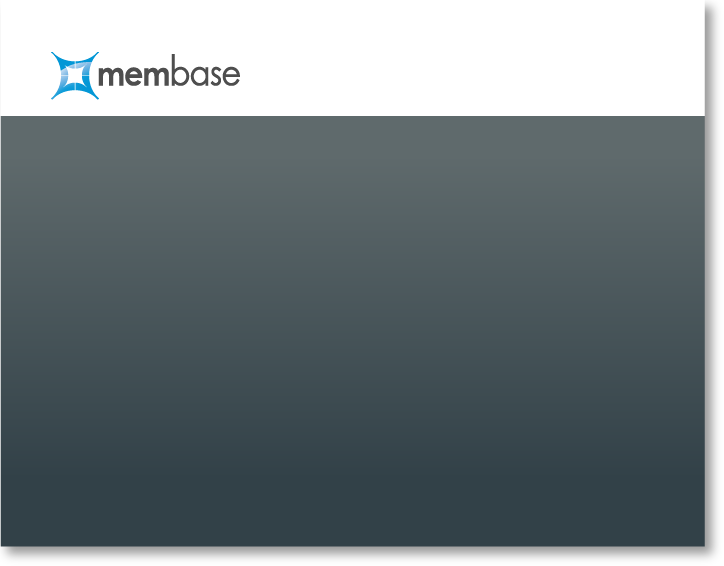
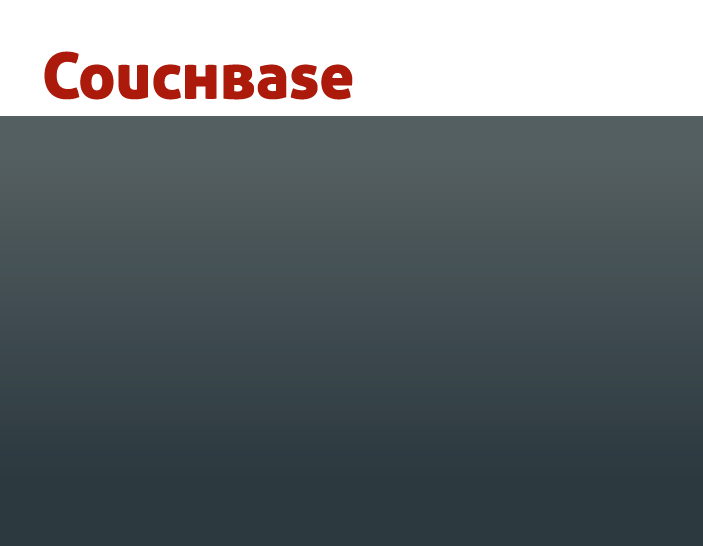
initial Couchbase rebranding and UI restyling

Changed region(s): [[0.0, 0.0, 1.0, 1.0]]

diff --git a/priv/public/css/screen.css b/priv/public/css/screen.css
@@ -24,14 +24,14 @@ textarea {overflow:auto;}
 input {border:0px solid white;margin:0;padding:0;}
 
 a {color:#0095d6; cursor:pointer; text-decoration:none; outline:none;}
-a:link {/*color: #00A6DE;*/color:#0095d6;}
+a:link {color:#2ea6db}
 a:hover {text-decoration:underline;}
 .link {color:#0095d6; cursor:pointer; text-decoration:none;}
 .link:hover {text-decoration:underline;}
 .link:active {outline:1px dotted gray;}
 
 html {height:100%;overflow-y:scroll}
-body {height:100%;color:#444245;font-family:Helvetica, Verdana;line-height:1;background:url(../images/background.png) repeat-x;}
+body {height:100%;color:#616062;font-family:Helvetica, Verdana;line-height:1;background:#F0EEE7}
 
 /* universal styles */
 .nobr {white-space:nowrap;}
@@ -89,22 +89,24 @@ a.disabled{text-decoration:none;cursor:default;}
 .main_holder {position:relative; margin:auto; left:0px !important;}
 .cnt_holder {width:960px; position:relative; left:12%;}
 
-.page-header {background:url('../images/ns_console_headerbg.png') repeat-x;height:75px;}
-.page-header span {position:absolute;background:url('../images/ns_console_logov2.png') no-repeat;width:361px;height:49px;top:15px;left:0;}
+.page-header {background:url('../images/header_bg.png') 0 bottom repeat-x;height:80px;}
+.page-header span {position:absolute;background:url('../images/logo.png') no-repeat;width:361px;height:49px;top:15px;left:0;}
 
-#headerNav {clear:both;height:50px;width:37em;margin:auto}
+#headerNav {clear:both;height:50px;background:url('../images/navigation_bg.png') repeat-x;}
+#headerNav .contents{width:46em;margin:auto;}
 #headerNav ul li {float:left;position:relative}
-#headerNav li a {display:block;text-decoration:none;padding:10px}
-#headerNav li a:hover {background:none #eaf4f9;}
-#headerNav li a.currentNav {background:none #dae4e9;}
+#headerNav li a {display:block;text-decoration:none;padding:13px 23px 7px;line-height:27px}
+#headerNav li:hover {background:url('../images/active_hover_bg.png') repeat-x;}
+#headerNav li.currentNav {background:url('../images/active_bg.png') no-repeat center;}
+#switch_overview {background:url('../images/home_icon.png') no-repeat 0.75em 50%;padding-left:2.5em !important;padding-right:1em !important}
 
 /* to position the badges in the navigation correctly */
 #headerNav a {position:relative;}
-#headerNav .badge {right:0px;top:0px;}
+#headerNav .badge {right:0;top:-0.6em;}
 
 #mainPanel {font-size:12px;/* Helvetica;*/}
 
-.page-footer {position:absolute;bottom:0;width:100%;height:208px;background:url('../images/ns_console_footer.png') repeat-x;}
+.page-footer {position:absolute;bottom:0;width:99.2%;height:96px;background:url('../images/footer_bg.png') repeat-x;padding-left:15px}
 .page-footer h1 {text-transform:none;padding-top:32px;font:normal 11pt Verdana;color:#97979A;}
 .page-footer a {color:#00A6DE;text-decoration:none;}
 
@@ -114,9 +116,10 @@ a.disabled{text-decoration:none;cursor:default;}
 .form label .check {float:left; margin:0 5px 0 0;}
 
 .topper_nav {float:right; font-size:11px; padding:15px 0 0 0;}
-.topper_nav a {color:#e3e8ea !important; text-decoration:none;}
+.topper_nav a {color:#a6a9ae !important; text-decoration:none;}
 .topper_nav b {margin:0 2px; color:#848f96; font-weight:bolder;}
 .topper_nav i {font-style:normal;}
+.sign-out-link a{color:#2ea6DB !important;}
 
 /* buttons */
 .save_cancel {height:31px;padding:5px 0;}
@@ -166,7 +169,7 @@ a.button_200 {display:block; color:#444245 !important; text-decoration:none !imp
 h1 {font-size:20px; font-weight:normal;}
 h1 .nav {display:block; padding:8px 10px 0 0; text-transform:none;}
 h1 .nav a {font-size:11px; font-weight:bolder;}
-#mainPanel h1 {text-transform:uppercase; padding:0 0 10px 9px;}
+#mainPanel h1 {padding:0 0 10px 9px;}
 #mainPanel h1 input {font-size:60%}
 #mainPanel h1 button {font-size:65%;width:2em;height:2.2em}
 
@@ -533,12 +536,13 @@ body.nojs .auth_block .pad .spinner span {display:none}
 
 #auth_dialog { display: none; }
 body.auth #auth_dialog { display: block; }
+#auth_dialog .page-header{-moz-box-shadow:0 0 5px #333;-webkit-box-shadow:0 0 5px #333;box-shadow:0 0 5px #333}
 body.auth #container { display: none; }
 
 .auth_block {min-height:737px; height:100%; position:relative;}
 .auth_block h1 {color:#2f3536; text-transform:uppercase; font-size:28px; padding:28px 0 30px 0; position:relative; top:13px;}
 .auth_block .pad {position:relative; width:580px; margin:auto;top:0px; height:537px;}
-.auth_block .form {display:block; width:580px; height:275px; background:url(../images/auth_form_bg.png) 0 0 no-repeat;position:relative;}
+.auth_block .form {display:block; width:580px; background:url(../images/auth_form_bg.png) 0 0 no-repeat;position:relative;-moz-box-shadow:1px 1px 10px #999;-webkit-box-shadow:1px 1px 10px #999;box-shadow:1px 1px 10px #999}
 .auth_block .form table {margin:25px 0 0 25px;}
 .auth_block .form table td {vertical-align:middle; padding:10px 0;}
 .auth_block .form table .forgot {position:relative; top:-10px; font-size:12px; color:#fff;}
@@ -590,7 +594,7 @@ body.auth #container { display: none; }
 .ie7 .graph_tooltip {width:218px;top:10px}
 .analytics-small-graph:hover .graph_tooltip {display:block}
 
-#about_server_dialog {display:none;background-color:#fff;width:475px;height:250px;/*margin-left:-210px !important; */}
+#about_server_dialog {display:none;background-color:#fff;width:650px;height:250px;/*margin-left:-210px !important; */}
 #about_server_dialog .lbox {background:none;overflow:hidden;width:auto}
 #about_server_dialog .lbox .config-top {height:50px;margin:0;padding:11px 11px 10px;background-position:-8px 100%;background-color:#e7e7e8;}
 #ui-dialog-title-about_server_dialog {width:90%}
@@ -618,14 +622,13 @@ body.auth #container { display: none; }
 #init_block .pad { display: none; }
 
 body.init_welcome #init_block { display: block; }
-body.init_welcome #init_welcome_dialog { display: block;  display=:none !important;}
+body.init_welcome #init_welcome_dialog { display: block;  display=:none !important;-moz-box-shadow:0 0 10px #999;-webkit-box-shadow:0 0 10px #999;box-shadow:0 0 10px #999}
 body.init_welcome #container { display: none; }
 body.init_welcome #init_welcome_dialog h1 {color:#fff; font-family:Verdana, Helvetica, sans-serif; font-size:18pt; font-weight:100; margin-bottom:-25px; margin-left:25px; padding-left:25px;}
 body.init_welcome #init_welcome_dialog p {color:#acbbc4; font-family:Verdana, Helvetica, sans-serif; font-size:14pt; font-weight:100;}
 body.init_welcome #init_welcome_dialog .pad-header {position:relative;}
-body.init_welcome #init_welcome_dialog .pad-header div.tagline {float:left; color:#00a6de; font-size:11pt; margin:38px 0 0 257px;}
+body.init_welcome #init_welcome_dialog .pad-header div.tagline {float:left; color:#00a6de; font-size:11pt; margin:41px 0 0 387px;}
 body.init_welcome #init_welcome_dialog .pad-header div.version {color:#ec5223; font-size:11pt; white-space: pre; overflow: visible; float:right; margin:10px;}
-body.init_welcome #init_welcome_dialog .pad-header div.elastro-cling {position:absolute;right:0;background:url(../images/elastro_cling_v22.png) no-repeat; float:right; height:239px; margin-right:-167px; margin-top:51px; width:189px;}
 
 body.init_welcome form#init_welcome_form {width:600px;margin:25px 0 14px 50px;}
 body.init_welcome form#init_welcome_form p {color:#bdccd4; font-family:Verdana,Helvetica,sans-serif; font-size:12pt; line-height:20px; margin-bottom:20px;}
@@ -633,7 +636,7 @@ body.init_welcome form#init_welcome_form input.license-input {border:1px solid #
 body.init_welcome form#init_welcome_form input[disabled="disabled"].license-input {background:#ddd;}
 body.init_welcome form#init_welcome_form input[type="image"] {width:145px; height:55px; margin-left:-7px; color:#fff;}
 
-body.init_welcome #init_welcome_dialog .welcome-footer {color:#9aa3a8; font:11px/15px Verdana, Helvetica, sans-serif;position:relative;top:10px;text-align:center; width:724px;}
+body.init_welcome #init_welcome_dialog .welcome-footer {color:#9aa3a8; font:11px/15px Verdana, Helvetica, sans-serif;position:relative;top:25px;text-align:center; width:703px;}
 body.init_welcome #init_welcome_dialog .welcome-footer a {color:#a7e4ff; margin-left:15px;}
 
 /* config */
@@ -649,7 +652,7 @@ body.init_resources #init_resources_dialog {background:none; background-color:#e
 body.init_resources #container { display: none; }
 
 body.init_cluster #init_block { display:block;}
-body.init_cluster #init_cluster_dialog {background:none; background-color:#eee; display: block; padding-bottom:-50px;}
+body.init_cluster #init_cluster_dialog {background:none; background-color:#eee; display: block; padding-bottom:-50px;-moz-box-shadow:0 0 10px #999;-webkit-box-shadow:0 0 10px #999;box-shadow:0 0 10px #999}
 body.init_cluster #init_cluster_dialog h2.question {border-bottom:1px solid #d5dadd; color:#444245; font-size:14pt; font-family:Verdana, Helvetica, Sans-Serif; font-weight:lighter; margin:25px 0px 0px 50px; padding-bottom:5px; width:85%;}
 body.init_cluster #init_cluster_dialog p.pad_10 {color:#444245; font-family:Verdana, Helvetica, Sans-Serif; font-size:10pt; font-weight:lighter; line-height:20px; margin-left:75px; width:500px;}
 body.init_cluster #init_cluster_dialog div.join_cluster_dialog_errors_container {color:#ff0000; display:none; margin-left:85px; width:500px;}
@@ -666,17 +669,17 @@ body.init_cluster #container {display:none;}
 #init_cluster_dialog .warning {clear:both;display:block;}
 
 body.init_secure #init_block {display:block;}
-body.init_secure #init_secure_dialog {background:none #eee;display:block; padding-bottom:-50px;}
+body.init_secure #init_secure_dialog {background:none #eee;display:block; padding-bottom:-50px;-moz-box-shadow:0 0 10px #999;-webkit-box-shadow:0 0 10px #999;box-shadow:0 0 10px #999}
 body.init_secure #init_secure_dialog h2.title {border-bottom:1px solid #d5dadd; color:#444245; font-size:14pt; font-family:Verdana, Helvetica, Sans-Serif; font-weight:lighter; margin:25px 0px 0px 50px; padding-bottom:5px; width:85%;}
 body.init_secure #init_secure_dialog p.pad_10 {width:500px;margin-left:65px;font:lighter 10pt/20px Verdana, Helvetica, Sans-Serif;}
 body.init_secure #init_secure_dialog form {width:100%;/*padding:0 0 25px;*/padding:0;}
 body.init_secure #init_secure_dialog form > div {overflow:hidden;width:500px;margin:8px auto 0;}
 body.init_secure #init_secure_dialog form > div label {display:inline-block;width:138px;font:12pt Verdana, Helvetica, sans-serif;*zoom:1;*padding:0 0 3px;}
 body.init_secure #init_secure_dialog form > div input {width:183px; padding:3px 3px 4px 5px;font-size:12pt; border:1px solid #ccd3d7;}
-body.init_secure #init_secure_dialog form > .config-bottom {overflow:hidden;width:696px;margin:25px auto 0 -8px;}
+body.init_secure #init_secure_dialog form > .config-bottom {overflow:hidden;width:682px;margin:25px auto 0 -8px;}
 body.init_secure #container {display:none;}
 
-.init_block #init_bucket_dialog {width:748px;padding-bottom:-50px;background:none #eee;}
+.init_block #init_bucket_dialog {width:748px;padding-bottom:-50px;background:none #eee;-moz-box-shadow:0 0 10px #999;-webkit-box-shadow:0 0 10px #999;box-shadow:0 0 10px #999}
 .init_block #init_bucket_dialog form {border:none;font-family:Verdana,Helvetica,sans-serif;}
 .init_block #init_bucket_dialog form > .clearfix:first-child {padding:0 50px 20px;}
 .init_block #init_bucket_dialog .save_cancel button {margin:2px 0 0 20px;}
@@ -688,8 +691,8 @@ body.init_bucket_dialog #container { display: none; }
 /* init_block */
 .init_block {min-height:700px; padding:55px 0 0; position:relative;}
 .init_block h1 {color:#2f3536; text-transform:uppercase; font-size:28px; padding:28px 0 30px 0; position:relative; top:13px;}
-.init_block .pad { width:724px; margin:0 auto;background:url(../images/welcome-background.png) 0 100% no-repeat;}
-.init_block .pad .pad-header {height:115px; width:705px; background:url(../images/welcome-background.png) 0 0 no-repeat;}
+.init_block .pad { width:703px; margin:0 auto;background:url(../images/welcome-background.png) 0 100% no-repeat;}
+.init_block .pad .pad-header {height:115px; width:703px; background:url(../images/welcome-background.png) 0 0 no-repeat;}
 .init_block .form {display:block; width:580px; 0 0 no-repeat;}
 .init_block .form table {margin:25px 0 0 25px;}
 .init_block .form table td {vertical-align:middle; padding:10px 0;}
@@ -753,7 +756,6 @@ li.server_row.status_down {background-position:10px -157px !important; backgroun
 .badge, .tabs .badge {background:#E43A1B;border: 2px solid white;-moz-border-radius:5em;-webkit-border-radius:5em;border-radius:5em;color: white;display: block;font-size: 11px;height: 2em;position: absolute;right: -20px;text-align: center;top: -16px;vertical-align: top;min-width: 2em;z-index: 10;-moz-box-shadow: 2px 2px 3px #999;-webkit-box-shadow: 2px 2px 3px #999;box-shadow: 2px 2px 3px #999; background-clip:padding-box;-moz-background-clip:padding;line-height:2.1em}
 .badge.notify, .tabs .badge.notify {background-color:#409f05;font-weight:bold}
 .badge span {color:#fff;}
-#headerNav .badge {top:-1em;right:-1em;}
 ul.tabs .tab_right .badge {display:none;}
 ul.tabs .badge_display .badge {display:block;}
 
@@ -809,7 +811,7 @@ ul.tabs .badge_display .badge {display:block;}
 #buckets .settings-placeholder {display:none; padding:9px 12px 8px 90px;border-top:2px solid #ced5d9;background:#e6e7e8;}
 .buckets_tab {border-right:1px solid #d9dce0;}
 .buckets_tab td {height:30px;background:none #eee;border-bottom:1px solid #ced5d9; padding:0 10px;border-right:0px; text-align:center;}
-.buckets_tab tr td:first-child {text-align:left;}
+.buckets_tab tr td:first-child {text-align:left;font-size:130%}
 .buckets_tab td > table td {padding:0 5px;width:110px;border:none;vertical-align:middle;}
 .buckets_tab td > table td:first-child {width:155px;padding:0 5px 0 61px;background:url(../images/icons.png) -7px -93px no-repeat #eee;}
 .buckets_tab td > table td:first-child+td+td {width:155px;}
@@ -991,7 +993,7 @@ span.staleness-notice, .staleness-notice { display: none; color: red; }
 body.init_update_notifications #init_block { display: block; }
 body.init_update_notifications #init_update_notifications_dialog {display:block}
 body.init_update_notifications #container {display:none;}
-.init_block #init_update_notifications_dialog {width:748px;padding-bottom:-50px;background:none #eee;}
+.init_block #init_update_notifications_dialog {width:748px;padding-bottom:-50px;background:none #eee;-moz-box-shadow:0 0 10px #999;-webkit-box-shadow:0 0 10px #999;box-shadow:0 0 10px #999}
 .init_block #init_update_notifications_dialog form {border:none;font-family:Verdana,Helvetica,sans-serif;}
 .init_block #init_update_notifications_dialog form > .clearfix:first-child {padding:0 50px 20px;}
 .init_block #init_update_notifications_dialog .save_cancel button {margin:2px 0 0 20px;}

diff --git a/priv/public/index.html b/priv/public/index.html
@@ -3,11 +3,11 @@
 <!--[if IE 8 ]>    <html class="ie8" lang="en"> <![endif]-->
 <!--[if (gte IE 9)|!(IE)]><!--><html lang="en"><!--<![endif]-->
 <head>
-<title>Membase Console</title>
+<title>Couchbase Console</title>
 <link rel="stylesheet" type="text/css" href="/css/screen.css">
 <link rel="stylesheet" type="text/css" href="/css/tabs.css">
 <link rel="stylesheet" type="text/css" href="/css/print.css">
-<link rel="stylesheet" type="text/css" href="/css/jquery-ui.membase.css">
+<link rel="stylesheet" type="text/css" href="/css/jquery-ui.couchbase.css">
 <meta http-equiv="Content-Type" content="text/html; charset=utf-8" />
 <meta http-equiv="X-UA-Compatible" content="chrome=1">
 </head>
@@ -19,16 +19,15 @@
       <div class="cnt_holder main_holder">
         <div class="topper_nav">
           <a id="switch_support_docs" href="http://techzone.couchbase.com/wiki/display/membase/Getting+Started" target="MCWebHelp">Documentation</a>
-          <b>&bull;</b><a id="switch_support_forums" href="http://techzone.couchbase.com/forums/membase/membase-server-17x/membase-server-17-developer-preview" target="nsforums">Support Forums</a>
-          <b>&bull;</b><a href="javascript:showAbout();">About</a>
+          <b>&bull;</b> <a id="switch_support_forums" href="http://techzone.couchbase.com/forums/membase/membase-server-17x/membase-server-17-developer-preview" target="nsforums">Support Forums</a>
+          <b>&bull;</b> <a href="javascript:showAbout();">About</a>
           <i class="sign-out-link"><b>&bull;</b> <a href="javascript:ThePage.signOut();">Sign Out</a></i>
         </div>
         <a href="/index.html"><span>&nbsp;</span></a>
       </div>
     </div> <!-- header -->
-
-    <div id="mainContainer" class="main_holder">
       <div id="headerNav">
+        <div class="contents">
         <ul>
           <!--<li class="line"></li>-->
           <li class="line"><a id="switch_overview" href="#visitSec=overview">Cluster Overview</a></li>
@@ -45,12 +44,14 @@
             {% } %}
           </a>
         </script>
+        </div>
       </div>
 
+    <div id="mainContainer" class="main_holder">
         <div id="mainPanel">
           <div id="overview" style="display:none">
             <!-- shadow box -->
-            <h1>CLUSTER OVERVIEW</h1>
+            <h1>Cluster Overview</h1>
             <div id="notice_container"></div>
             <div class="shadow_box">
                   <div class="content">
@@ -144,7 +145,7 @@
         </div>
 
           <div id="servers" style="display:none">
-            <h1>SERVERS</h1>
+            <h1>Servers</h1>
             <div class="warning_message failover_warning">
               Fail Over Warning: <span class="warning-text"></span>
             </div>
@@ -630,7 +631,7 @@
                       </label>
                       <p class="more_info">
                       Enabling software update notifications allows notification in
-                      the Membase web console when a new version of Membase Server
+                      the Couchbase web console when a new version of Couchbase Server
                       is available. Configuration information transferred in the
                       update check is anonymous and does not include any stored
                       key-value data.
@@ -902,8 +903,8 @@
 <div class="dialog" id="about_server_dialog">
   <div class="lbox">
     <div class="config-top">
-      <img src="images/membase-logo.png" alt="Membase Logo" />
-      <h1>About Membase Server</h1>
+      <img src="images/logo.png" alt="Couchbase Logo" />
+      <h1>About Couchbase Server</h1>
     </div>
     <div class="center">
       <p class="dialog-text" id="about_versions"></p>
@@ -997,17 +998,16 @@
 
   <div class="pad" id="init_welcome_dialog">
     <div class="pad-header">
-      <div class="version" style="display:none;">Membase Server <span class="membase-version"></span></div>
+      <div class="version" style="display:none;">Couchbase Server <span class="couchbase-version"></span></div>
       <div class="tagline">
         ELASTIC DATA MANAGEMENT
       </div>
-      <div class="elastro-cling"></div>
     </div>
     <!-- screen S.1 -->
     <h1>Congratulations</h1>
     <form id="init_welcome_form">
       <p>
-        You have successfully installed the Membase Server.<br>This wizard will help you configure your cluster.
+        You have successfully installed the Couchbase Server.<br>This wizard will help you configure your cluster.
       </p>
       <div class="pat_10">
         <input type="image" name="setup" value="Setup" class="submit next focusme" src="../images/welcome-setup-button.png" />
@@ -1038,13 +1038,13 @@
     </div>
     <h2 class="question">Join Cluster / Start new Cluster</h2>
     <p class="pad_10">
-    If you want to add this server to an existing Membase Cluster, select "Join a
+    If you want to add this server to an existing Couchbase Cluster, select "Join a
     cluster now".
-    Alternatively, you may create a new Membase Cluster by selecting "Start a new
+    Alternatively, you may create a new Couchbase Cluster by selecting "Start a new
     cluster".
     </p><p class="pad_10" style="padding-top: 5px;">
     If you start a new cluster the "Per Server RAM Quota" you set below will define
-    the amount of RAM each server provides to the Membase Cluster. This value will
+    the amount of RAM each server provides to the Couchbase Cluster. This value will
     be inherited by all servers subsequently joining the cluster and it cannot be
     modified in an existing cluster, so please set appropriately.
     </p>
@@ -1112,7 +1112,7 @@
       <a href="#" class="more_info">What's this?</a>
     </p>
     <p class="more_info pad_10">
-      Enabling software update notifications allows notification in the Membase web console when a new version of Membase Server is available. Configuration information transferred in the update check is anonymous and does not include any stored key-value data.
+      Enabling software update notifications allows notification in the Couchbase web console when a new version of Couchbase Server is available. Configuration information transferred in the update check is anonymous and does not include any stored key-value data.
     </p>
     <h2 class="question">Community Updates</h2>
     <p class="pad_10">Please provide your email address to join the community and receive news on coming events.</p>
@@ -1230,7 +1230,7 @@
 <script id="notice_template" type="text/html">
 <div class="shadow_box notice">
   <div class="content">
-    <h2 class="header_2">Membase Server Message<span style="float: right; color: black; font-size: 13px;">click to dismiss</span></h2>
+    <h2 class="header_2">Couchbase Server Message<span style="float: right; color: black; font-size: 13px;">click to dismiss</span></h2>
     <div class="pad_10 success_msg">
       <p class="info_text">{%= h(text) %}</p>
     </div>
@@ -1240,7 +1240,7 @@
 <script id="noticeErr_template" type="text/html">
 <div class="shadow_box notice">
   <div class="content">
-    <h2 class="header_2">Membase Server Alert<span style="float: right; color: black; font-size: 13px;">click to dismiss</span></h2>
+    <h2 class="header_2">Couchbase Server Alert<span style="float: right; color: black; font-size: 13px;">click to dismiss</span></h2>
     <div class="pad_10 error_msg">
       <p class="info_text">{%= h(text) %}</p>
     </div>

diff --git a/priv/public/js/core-data.js b/priv/public/js/core-data.js
@@ -151,7 +151,7 @@ var DAL = {
       DAL.uuid = data.uuid;
       if (!DAL.appendedVersion) {
         document.title = document.title + " (" + data.implementationVersion + ")";
-        $('.version > .membase-version').text(String(data.implementationVersion)).parent().show();
+        $('.version > .couchbase-version').text(String(data.implementationVersion)).parent().show();
         DAL.appendedVersion = true;
       }
     }

diff --git a/priv/public/js/app.js b/priv/public/js/app.js
@@ -223,7 +223,7 @@ var ThePage = {
 
     DAL.cells.mode.subscribeValue(function (sec) {
       $('.currentNav').removeClass('currentNav');
-      $('#switch_' + sec).addClass('currentNav');
+      $('#switch_' + sec).parent('li').addClass('currentNav');
     });
 
     DAL.onReady(function () {
